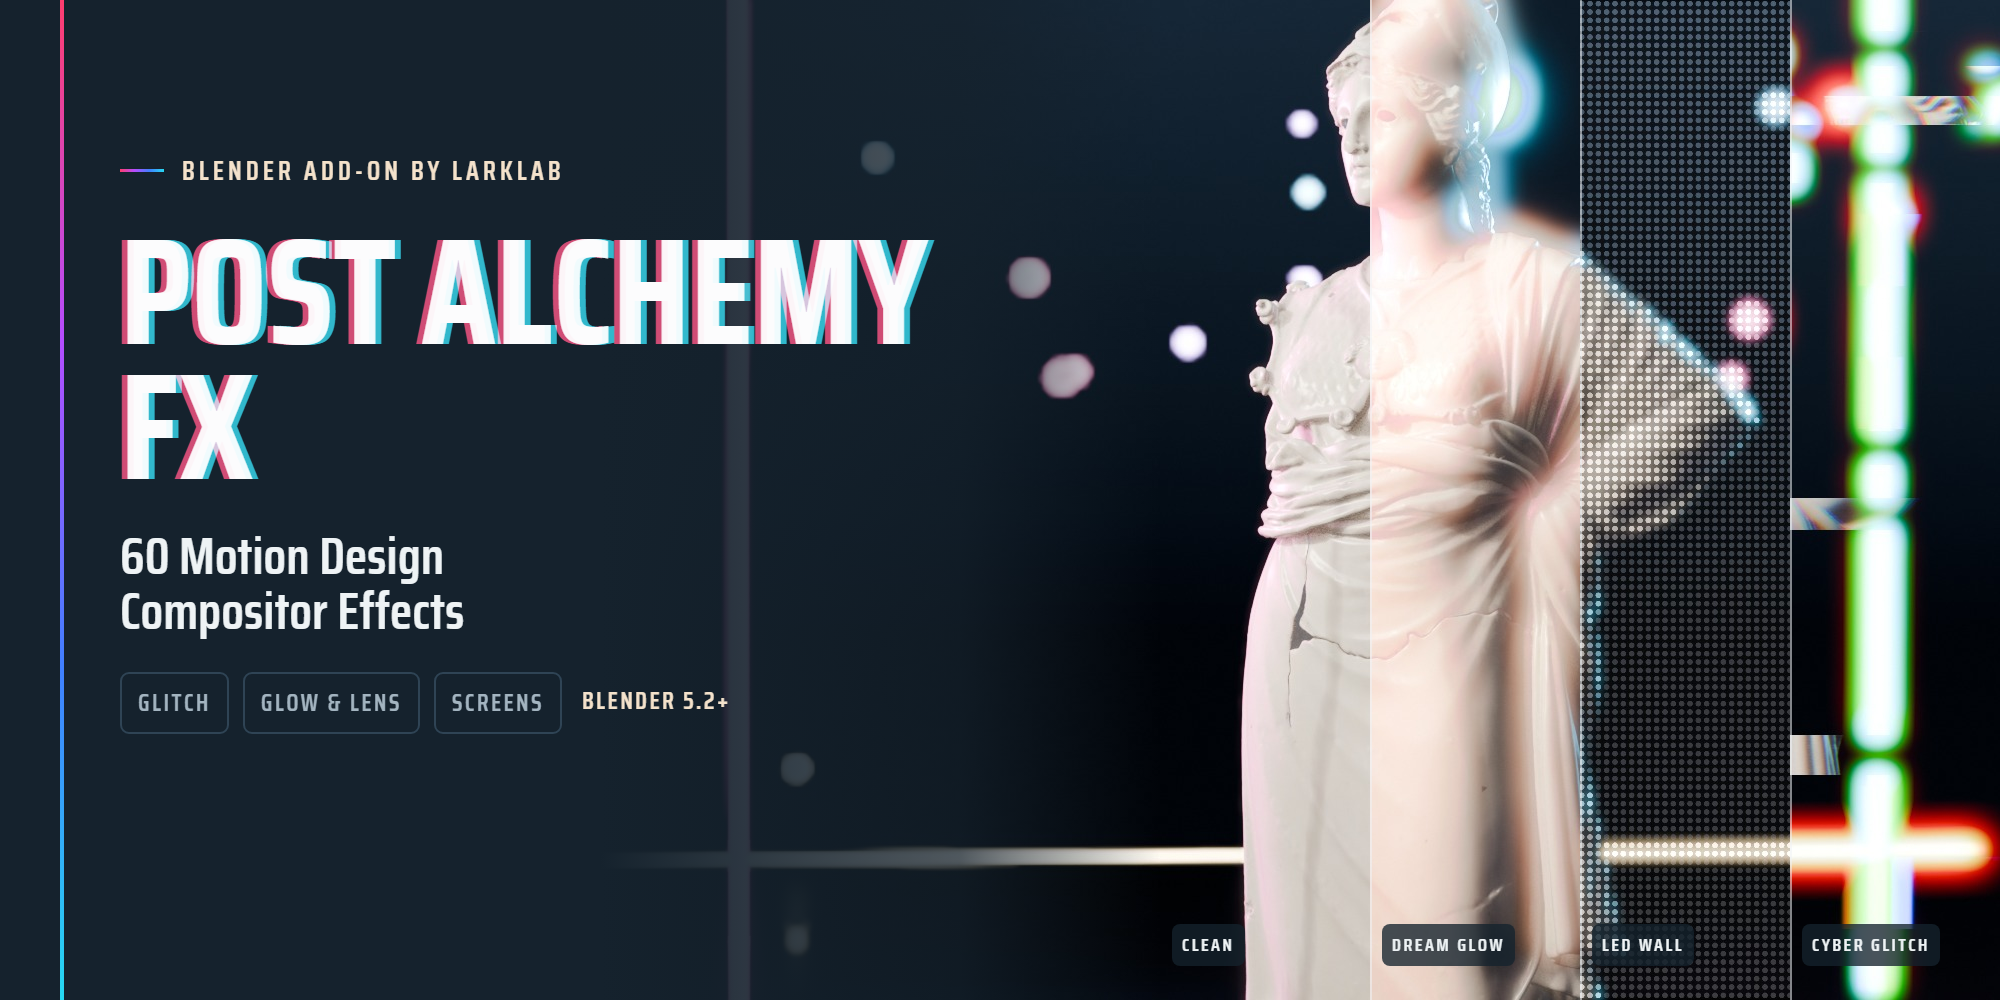
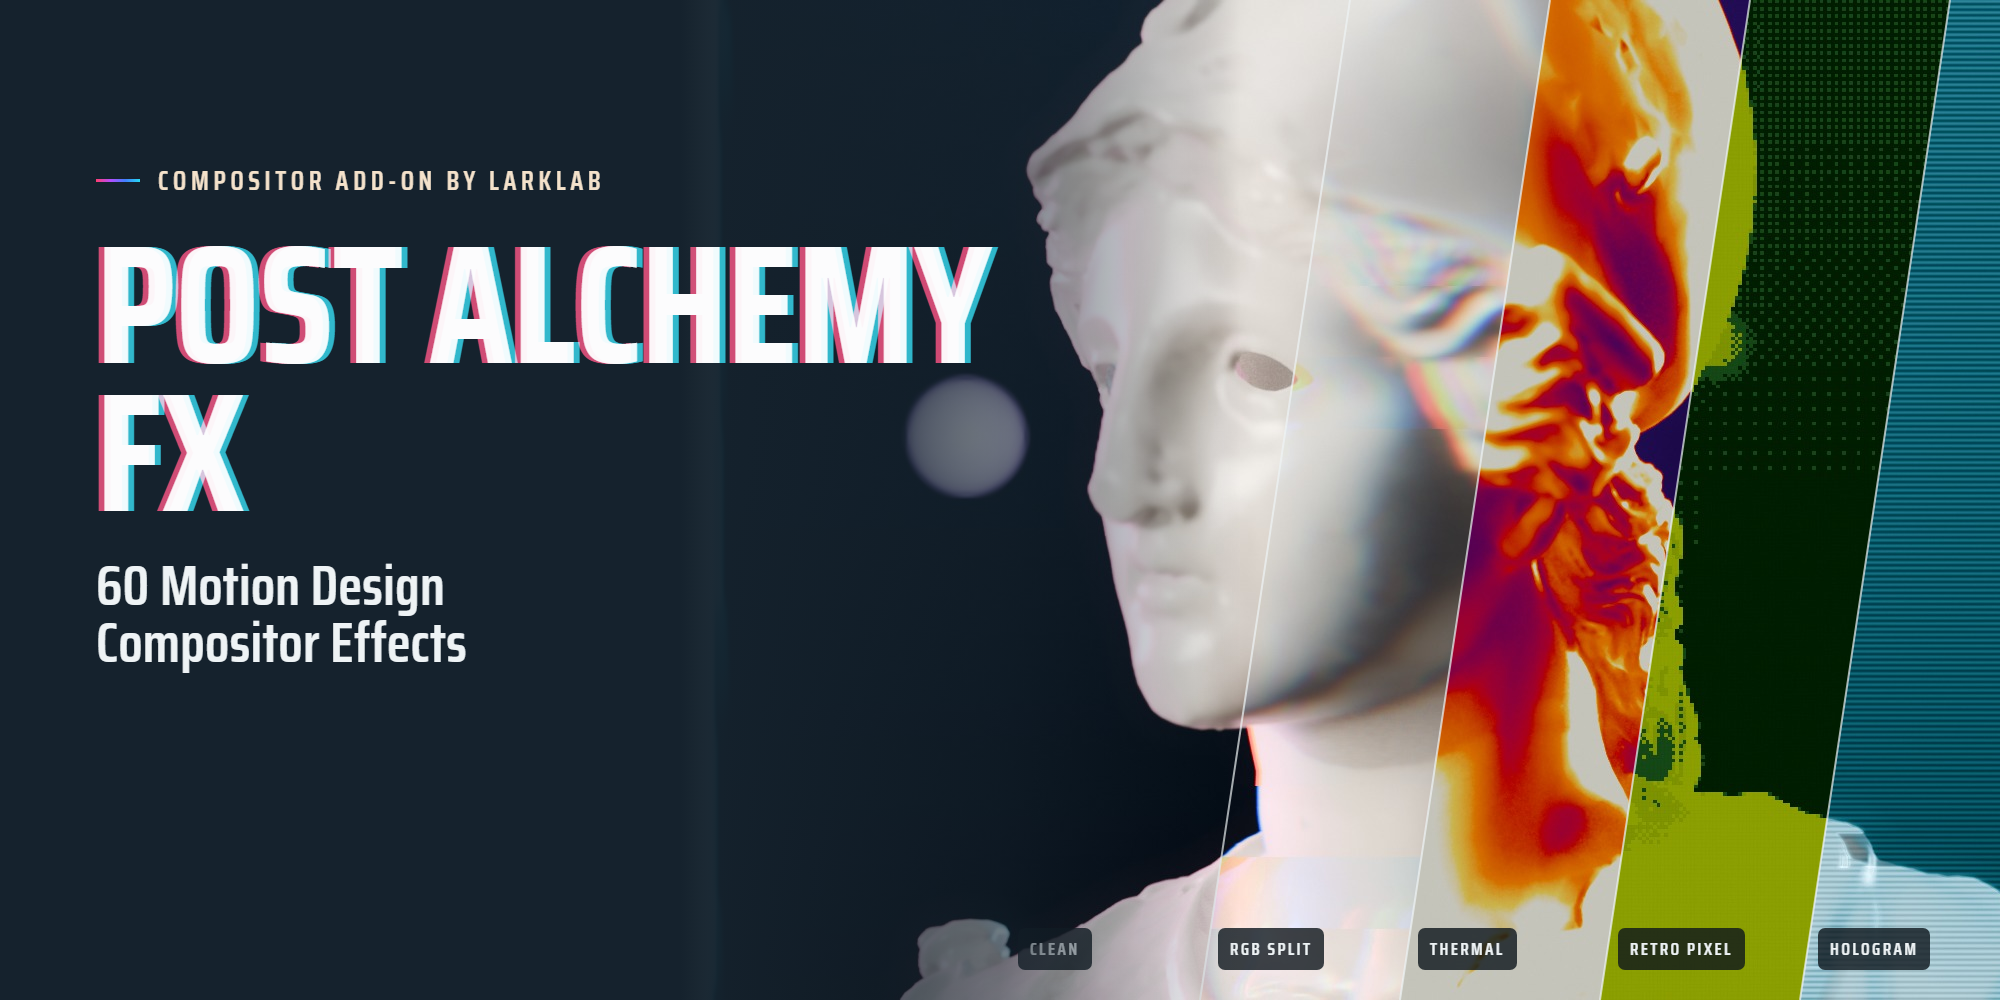
Redesign gallery images, target Blender 5.0+

diff --git a/github-pages/index.html b/github-pages/index.html
@@ -4,7 +4,7 @@
 <meta charset="utf-8">
 <meta name="viewport" content="width=device-width, initial-scale=1, viewport-fit=cover">
 <title>Post Alchemy FX</title>
-<meta name="description" content="Post Alchemy FX: 60 Motion Design Compositor Effects for Blender 5.2 by LarkLab.">
+<meta name="description" content="Post Alchemy FX: 60 Motion Design Compositor Effects for Blender 5.0+ by LarkLab.">
 <link rel="preconnect" href="https://fonts.googleapis.com">
 <link rel="preconnect" href="https://fonts.gstatic.com" crossorigin>
 <link rel="stylesheet" href="https://fonts.googleapis.com/css2?family=Saira:wdth,wght@75..100,500..800&family=Figtree:wght@400;500;600&display=swap">
@@ -174,7 +174,7 @@ footer b{font:700 15px var(--display);letter-spacing:.12em;text-transform:upperc
 <header class="hero">
   <span class="maker"><i></i>Blender add-on by LarkLab</span>
   <h1><span class="rgb" data-t="Post Alchemy FX">Post Alchemy FX</span></h1>
-  <div class="sub">60 Motion Design Compositor Effects · Blender 5.2+</div>
+  <div class="sub">60 Motion Design Compositor Effects · Blender 5.0+</div>
   <p class="lead">Glitch, glow and screen looks built as native compositor node groups. Click once to add an effect, stack as many as you like, and render at any resolution. Every effect is animated out of the box, with one switch to freeze it.</p>
   <div class="cta">
     <a class="btn primary" href="#collection">Browse all 60 effects</a>
@@ -301,7 +301,7 @@ footer b{font:700 15px var(--display);letter-spacing:.12em;text-transform:upperc
   <div class="gate"><b>07</b>Details</div>
   <h2>Specifications</h2>
   <dl class="specs">
-    <div><dt>Blender version</dt><dd>5.2 or newer</dd></div>
+    <div><dt>Blender version</dt><dd>5.0 or newer</dd></div>
     <div><dt>Effects</dt><dd>60 (20 per family)</dd></div>
     <div><dt>Built-in presets</dt><dd>16, plus your own</dd></div>
     <div><dt>Editors</dt><dd>Compositor, Sequencer, 3D viewport</dd></div>
@@ -316,7 +316,7 @@ footer b{font:700 15px var(--display);letter-spacing:.12em;text-transform:upperc
 
 <footer>
   <b>LarkLab</b>
-  <span>Post Alchemy FX 2.0 for Blender 5.2+. Showcase scene: marble Neptune scan, rendered in Eevee.</span>
+  <span>Post Alchemy FX 2.0 for Blender 5.0+. Showcase scene: marble Neptune scan, rendered in Eevee.</span>
 </footer>
 </main>
 

diff --git a/docs/index.html b/docs/index.html
@@ -111,7 +111,7 @@ footer{margin-top:70px;padding-top:22px;border-top:1px solid var(--rule);color:v
 
 <main>
 <header>
-  <div class="k">LarkLab · Blender 5.2+</div>
+  <div class="k">LarkLab · Blender 5.0+</div>
   <h1>Post Alchemy FX documentation</h1>
   <p class="lede">Everything you need to add, stack, animate and render the 60 motion design compositor effects. Each effect is a regular Blender node group, so everything here also works by hand in the node editor.</p>
 </header>

diff --git a/README.md b/README.md
@@ -1,6 +1,6 @@
 # Post Alchemy FX: 60 Motion Design Compositor Effects
 
-Product page and documentation for **Post Alchemy FX**, a Blender 5.2+ add-on by LarkLab.
+Product page and documentation for **Post Alchemy FX**, a Blender 5.0+ add-on by LarkLab.
 
 | Page | URL | Folder |
 |---|---|---|
